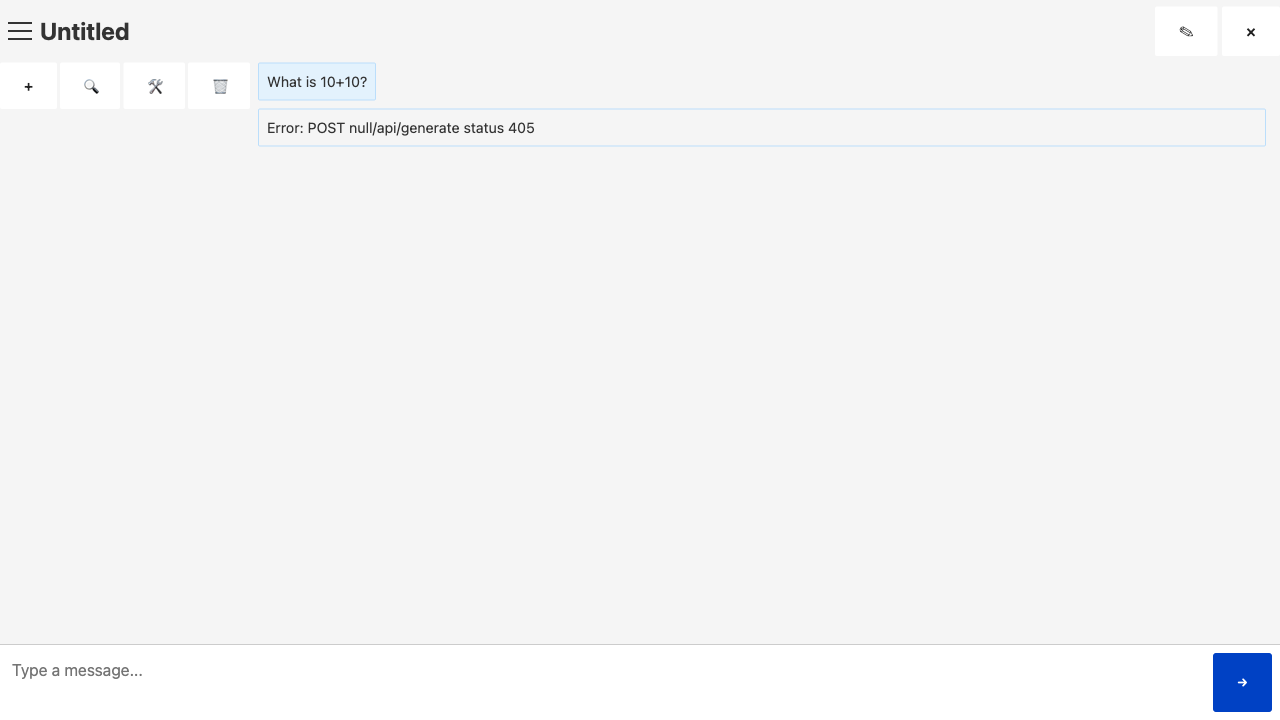
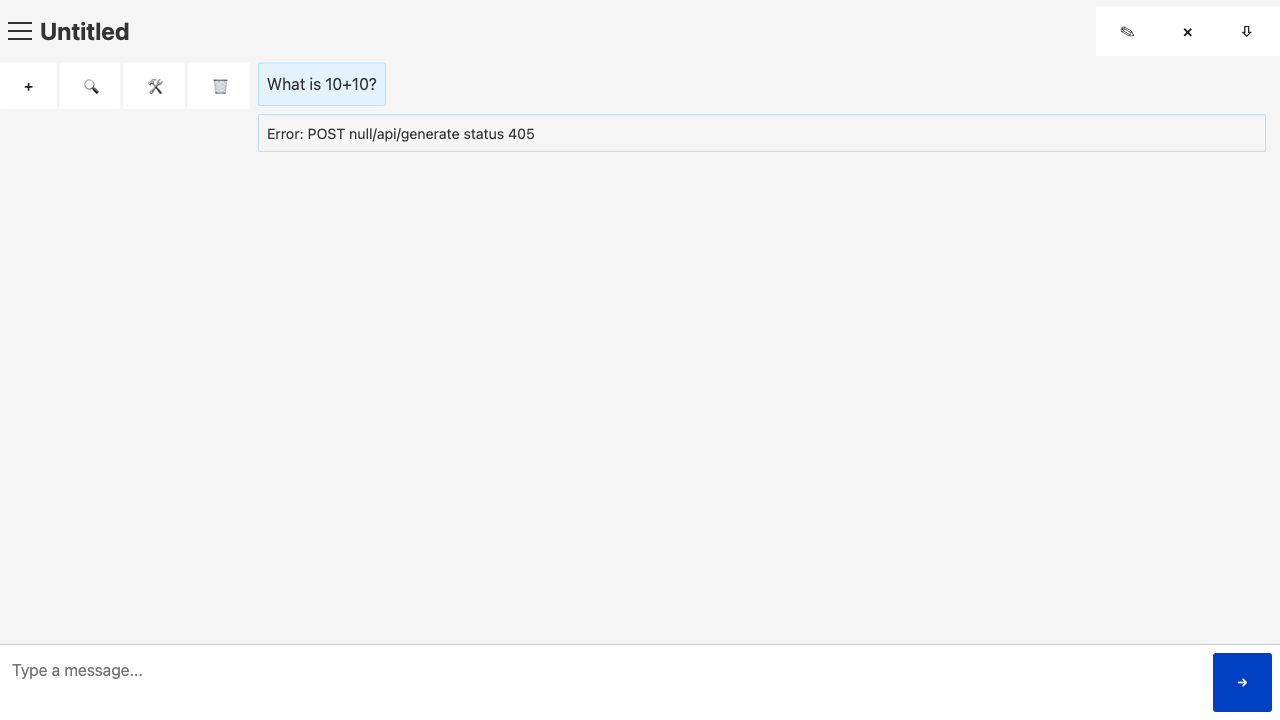
Add download chat

Changed region(s): [[0.1875, 0.0917, 0.9688, 0.2139], [0.9062, 0.0306, 0.9375, 0.0611]]

diff --git a/js/App.test.js b/js/App.test.js
@@ -53,6 +53,13 @@ class AppTest {
     await this.page.locator('#button-save-settings').click()
   }
 
+  async sendMessage (message) {
+    await this.page.fill('#message-input', message)
+    await this.page.click('#send-button')
+    await expect(this.page.locator('#abort-button')).toBeVisible()
+    await this.page.waitForSelector('#send-button', { timeout: 60000 })
+  }
+
   async newChat (title) {
     await this.page.click('#new-chat-button')
     const newTitle = /Untitled/
@@ -145,7 +152,6 @@ test.describe('Application tests', () => {
     await app.selectChat('Happy Hamster')
     await app.selectChat('Super Hamster')
     await app.selectChat('Smart Hamster')
-    await app.screenshot('screenshots/main.png')
   })
 
   test('Edit chat title', async () => {
@@ -155,16 +161,16 @@ test.describe('Application tests', () => {
 
   test('Show settings', async () => {
     await app.showSettings()
+    await app.screenshot('screenshots/settings.png')
   })
 
   test('Update settings', async () => {
     await app.updateSettings(url, model)
-    await app.screenshot('screenshots/settings.png')
   })
 
   test('Search chats', async () => {
     // Create chats for each country
-    for (const name of ['Finland', 'Sweden', 'Norway', 'Denmark']) {
+    for (const name of ['Finland', 'Sweden', 'Canada', 'Norway', 'Denmark']) {
       await app.newChat(name)
     }
 
@@ -183,7 +189,7 @@ test.describe('Application tests', () => {
 
     // Search for 'Sweden', and verify its visibility
     await app.page.fill('#search-input', '')
-    await app.page.type('#search-input', 'Sweden')
+    await app.page.type('#search-input', 'w')
     await app.page.waitForTimeout(500) // Small delay to allow UI to update
     await app.screenshot('screenshots/search.png')
     // Check if 'Sweden' is visible
@@ -210,10 +216,7 @@ test.describe('Application tests', () => {
   test('Send message', async () => {
     await app.updateSettings(url, model)
     await app.editChatTitle('What is 10+10?')
-    await app.page.fill('#message-input', 'What is 10+10?')
-    await app.page.click('#send-button')
-    await expect(app.page.locator('#abort-button')).toBeVisible()
-    await app.page.waitForSelector('#send-button', { timeout: 60000 })
+    await app.sendMessage('What is 10+10?')
     await app.screenshot('screenshots/chat.png')
   })
 
@@ -226,4 +229,29 @@ test.describe('Application tests', () => {
     await expect(app.page.locator('#abort-button')).not.toBeVisible()
     await expect(app.page.locator('#send-button')).toBeVisible()
   })
+
+  /*
+  TODO:
+  test('Download chat', async () => {
+    await app.updateSettings(url, model)
+    await app.sendMessage('What is 10+10?')
+
+    // Set up a listener for the download event
+    const [ download ] = await Promise.all([
+      // It's important to set up the listener before triggering the download
+      app.page.waitForEvent('download'),
+      // Trigger the download here
+      app.page.click('.download-button')
+    ])
+
+    // Wait for the download to complete
+    const path = await download.path()
+
+    // Verify the download (e.g., check file name, size, etc.)
+    console.log(`Downloaded file: ${path}`)
+
+    // Optional: Check the download's filename
+    console.log(`Downloaded filename: ${download.suggestedFilename()}`)
+  })
+  */
 })

diff --git a/js/App.js b/js/App.js
@@ -2,6 +2,8 @@ import { Event } from './Event.js'
 import { Chats } from './models/Chats.js'
 import { LocalStorage } from './models/LocalStorage.js'
 import { Sidebar } from './Sidebar.js'
+import { CopyButton } from './CopyButton.js'
+import { DownloadButton } from './DownloadButton.js'
 import { ChatArea } from './ChatArea.js'
 
 // Configuration and DOM elements
@@ -10,6 +12,8 @@ const storage = new LocalStorage()
 export class App {
   static run () {
     const app = new App()
+    this.downloadButton = new DownloadButton()
+    this.copyButton = new CopyButton()
     return app
   }
 
@@ -124,13 +128,26 @@ Chat:  ${this.chats.getCurrentChat()?.id}
   }
 
   createMessageDiv = (text, sender) => {
-    const div = document.createElement('div')
-    div.classList.add('message', `${sender}-message`)
-    div.textContent = text
-    div.initialResponse = true
-    this.chatHistory.appendChild(div)
+    // Get the template and its content
+    const template = document.getElementById('chat-message-template')
+    const messageClone = template.content.cloneNode(true)
+
+    // Find the div and span elements within the cloned template
+    const messageDiv = messageClone.querySelector('div')
+    const textSpan = messageClone.querySelector('.message-text')
+
+    // Set the class for sender and text content
+    messageDiv.classList.add(`${sender}-message`)
+    textSpan.textContent = text
+
+    // Set initialResponse property
+    messageDiv.initialResponse = true
+
+    // Append to chatHistory and adjust scroll
+    this.chatHistory.appendChild(messageDiv)
     this.chatHistory.scrollTop = this.chatHistory.scrollHeight
-    return div
+
+    return messageDiv
   }
 
   getSpinner = () => {

diff --git a/index.html b/index.html
@@ -22,13 +22,16 @@
             </div>
             <!-- Chat menu -->
             <h2 id="chat-title" class="col grw" contenteditable required title="Edit chat title">New chat</h2>
-            <div class="col">
-                <button id="edit-chat-button" class="button">
-                  <i class="icon-edit"></i>
-                </button>
-                <button id="delete-chat-button" class="button">
-                  <i class="icon-delete"></i>
-                </button>
+            <div class="buttons">
+            <button id="edit-chat-button" class="button col" title="Edit chat">
+              <i class="icon-edit"></i>
+            </button>
+            <button id="delete-chat-button" class="button col" title="Delete chat">
+              <i class="icon-delete"></i>
+            </button>
+            <button data-target="chat-history" class="button download-button col" title="Download chat">
+              <i class="icon-download"></i>
+            </button>
             </div>
         </header>
         <div id="chat-area">
@@ -107,6 +110,15 @@
         </a>
         -->
       </li>
+    </template>
+    <!-- Chat message template -->
+    <template id="chat-message-template">
+        <div class="message">
+            <span class="message-text"></span>
+            <!--
+            <button class="copy-button button button-mini"><i class="icon-copy"></i></button>
+            -->
+        </div>
     </template>
     <script type="module" src="/js/script.js"></script>
 </body>

diff --git a/js/DownloadButton.js b/js/DownloadButton.js
@@ -1,0 +1,40 @@
+export class DownloadButton {
+  constructor () {
+    document.addEventListener('click', (event) => {
+      // Check if the clicked element has the class 'copy-button'
+      if (event.target.classList.contains('download-button')) {
+        // Get the index from the data-target attribute
+        const targetId = event.target.getAttribute('data-target')
+        this.downloadElementContent(targetId, 'chat.html')
+      }
+    })
+  }
+
+  downloadElementContent (elementId, filename) {
+    // Get the element
+    const element = document.getElementById(elementId)
+    if (!element) {
+      console.error('Element not found')
+      return
+    }
+
+    // Get the contents of the element
+    const content = element.innerText
+
+    // Create a Blob with the content
+    const blob = new Blob([content], { type: 'text/html' })
+
+    // Create an anchor element and set the href to the blob
+    const a = document.createElement('a')
+    a.href = URL.createObjectURL(blob)
+    a.download = filename
+
+    // Append the anchor to the document, trigger a click, and then remove it
+    document.body.appendChild(a)
+    a.click()
+    document.body.removeChild(a)
+
+    // Revoke the blob URL
+    URL.revokeObjectURL(a.href)
+  }
+}

diff --git a/js/CopyButton.js b/js/CopyButton.js
@@ -1,0 +1,34 @@
+export class CopyButton {
+  static run () {
+    const btn = new CopyButton()
+    return btn
+  }
+
+  constructor () {
+    document.addEventListener('click', function (event) {
+      // Check if the clicked element has the class 'copy-button'
+      if (event.target.classList.contains('copy-button')) {
+        // Get the index from the data-target attribute
+        const targetIndex = this.getAttribute('data-target')
+
+        // Select the corresponding text element
+        const textToCopy = document.querySelectorAll('.copyText')[targetIndex].innerText
+
+        // Create a temporary textarea element
+        const textarea = document.createElement('textarea')
+        textarea.value = textToCopy
+        document.body.appendChild(textarea)
+
+        // Select the text and copy it
+        textarea.select()
+        document.execCommand('copy')
+
+        // Remove the temporary textarea
+        document.body.removeChild(textarea)
+
+        // Optional: Display a message or change the button text/content
+        alert('Text copied to clipboard')
+      }
+    })
+  }
+}

diff --git a/css/icons.scss b/css/icons.scss
@@ -7,6 +7,16 @@ i[class^="icon-"] {
   font-size: 12px;
 }
 
+.icon-download:before {
+  content: '\21E9\00a0'; /* Unicode character for the download icon followed by a non-breaking space */
+}
+
+.icon-copy:before {
+  content: '\2398\00a0'; /* Unicode character for the copy icon followed by a non-breaking space */
+  font-size: 20px; /* Adjust the size of the icon */
+  vertical-align: middle;
+}
+
 .icon-selected:before {
   content: "\203A";
 }

diff --git a/css/ChatHistory.scss b/css/ChatHistory.scss
@@ -15,6 +15,11 @@
   padding: 0.5rem;
   border-radius: 2px;
   border: 1px solid #BBDEFB; /* Light blue border (100) */
+
+  .button {
+    margin-top: 1rem;
+    display: block;
+  }
 }
 
 /* Styling for user messages */
@@ -33,4 +38,3 @@
   //border: 1px solid #FFE0B2; /* Light orange border (100) */
   border-radius: 2px;
 }
-

diff --git a/css/CopyButton.scss b/css/CopyButton.scss
@@ -1,0 +1,10 @@
+.copy-button {
+    font-family: Arial, sans-serif; /* Ensures the Unicode character displays correctly */
+    font-size: 16px; /* Adjust as needed */
+    padding: 10px;
+    background-color: #4CAF50;
+    color: white;
+    border: none;
+    border-radius: 5px;
+    cursor: pointer;
+}

diff --git a/css/button.scss b/css/button.scss
@@ -18,6 +18,14 @@ button {
   background-color: #cfcfcf;
 }
 
+.button-small {
+  padding: 0.25rem 1.0rem;
+}
+
+.button-mini {
+  padding: 0.15rem 0.25rem;
+}
+
 /* Primary button */
 .button-primary {
   background-color: #0052cc;

diff --git a/README.md b/README.md
@@ -1,6 +1,6 @@
 # ollama-html-ui
 
-![cover](/screenshots/main.png)
+![cover](/screenshots/chat.png)
 
 ![Contributions Welcome](https://img.shields.io/badge/Contributions-welcome-blue.svg)
 
@@ -17,6 +17,8 @@ A HTML UI for Ollama.
 - New chat
 - Edit chat
 - Delete chat
+- Download chat
+- Copy chat
 - Search chats
 - Clear chats
 - View settings
@@ -25,7 +27,7 @@ A HTML UI for Ollama.
 
 ## Screenshots
 
-![Main screen](/screenshots/main.png)
+![Main screen](/screenshots/chat.png)
 ![Settings screen](/screenshots/settings.png)
 ![Search](/screenshots/search.png)
 
